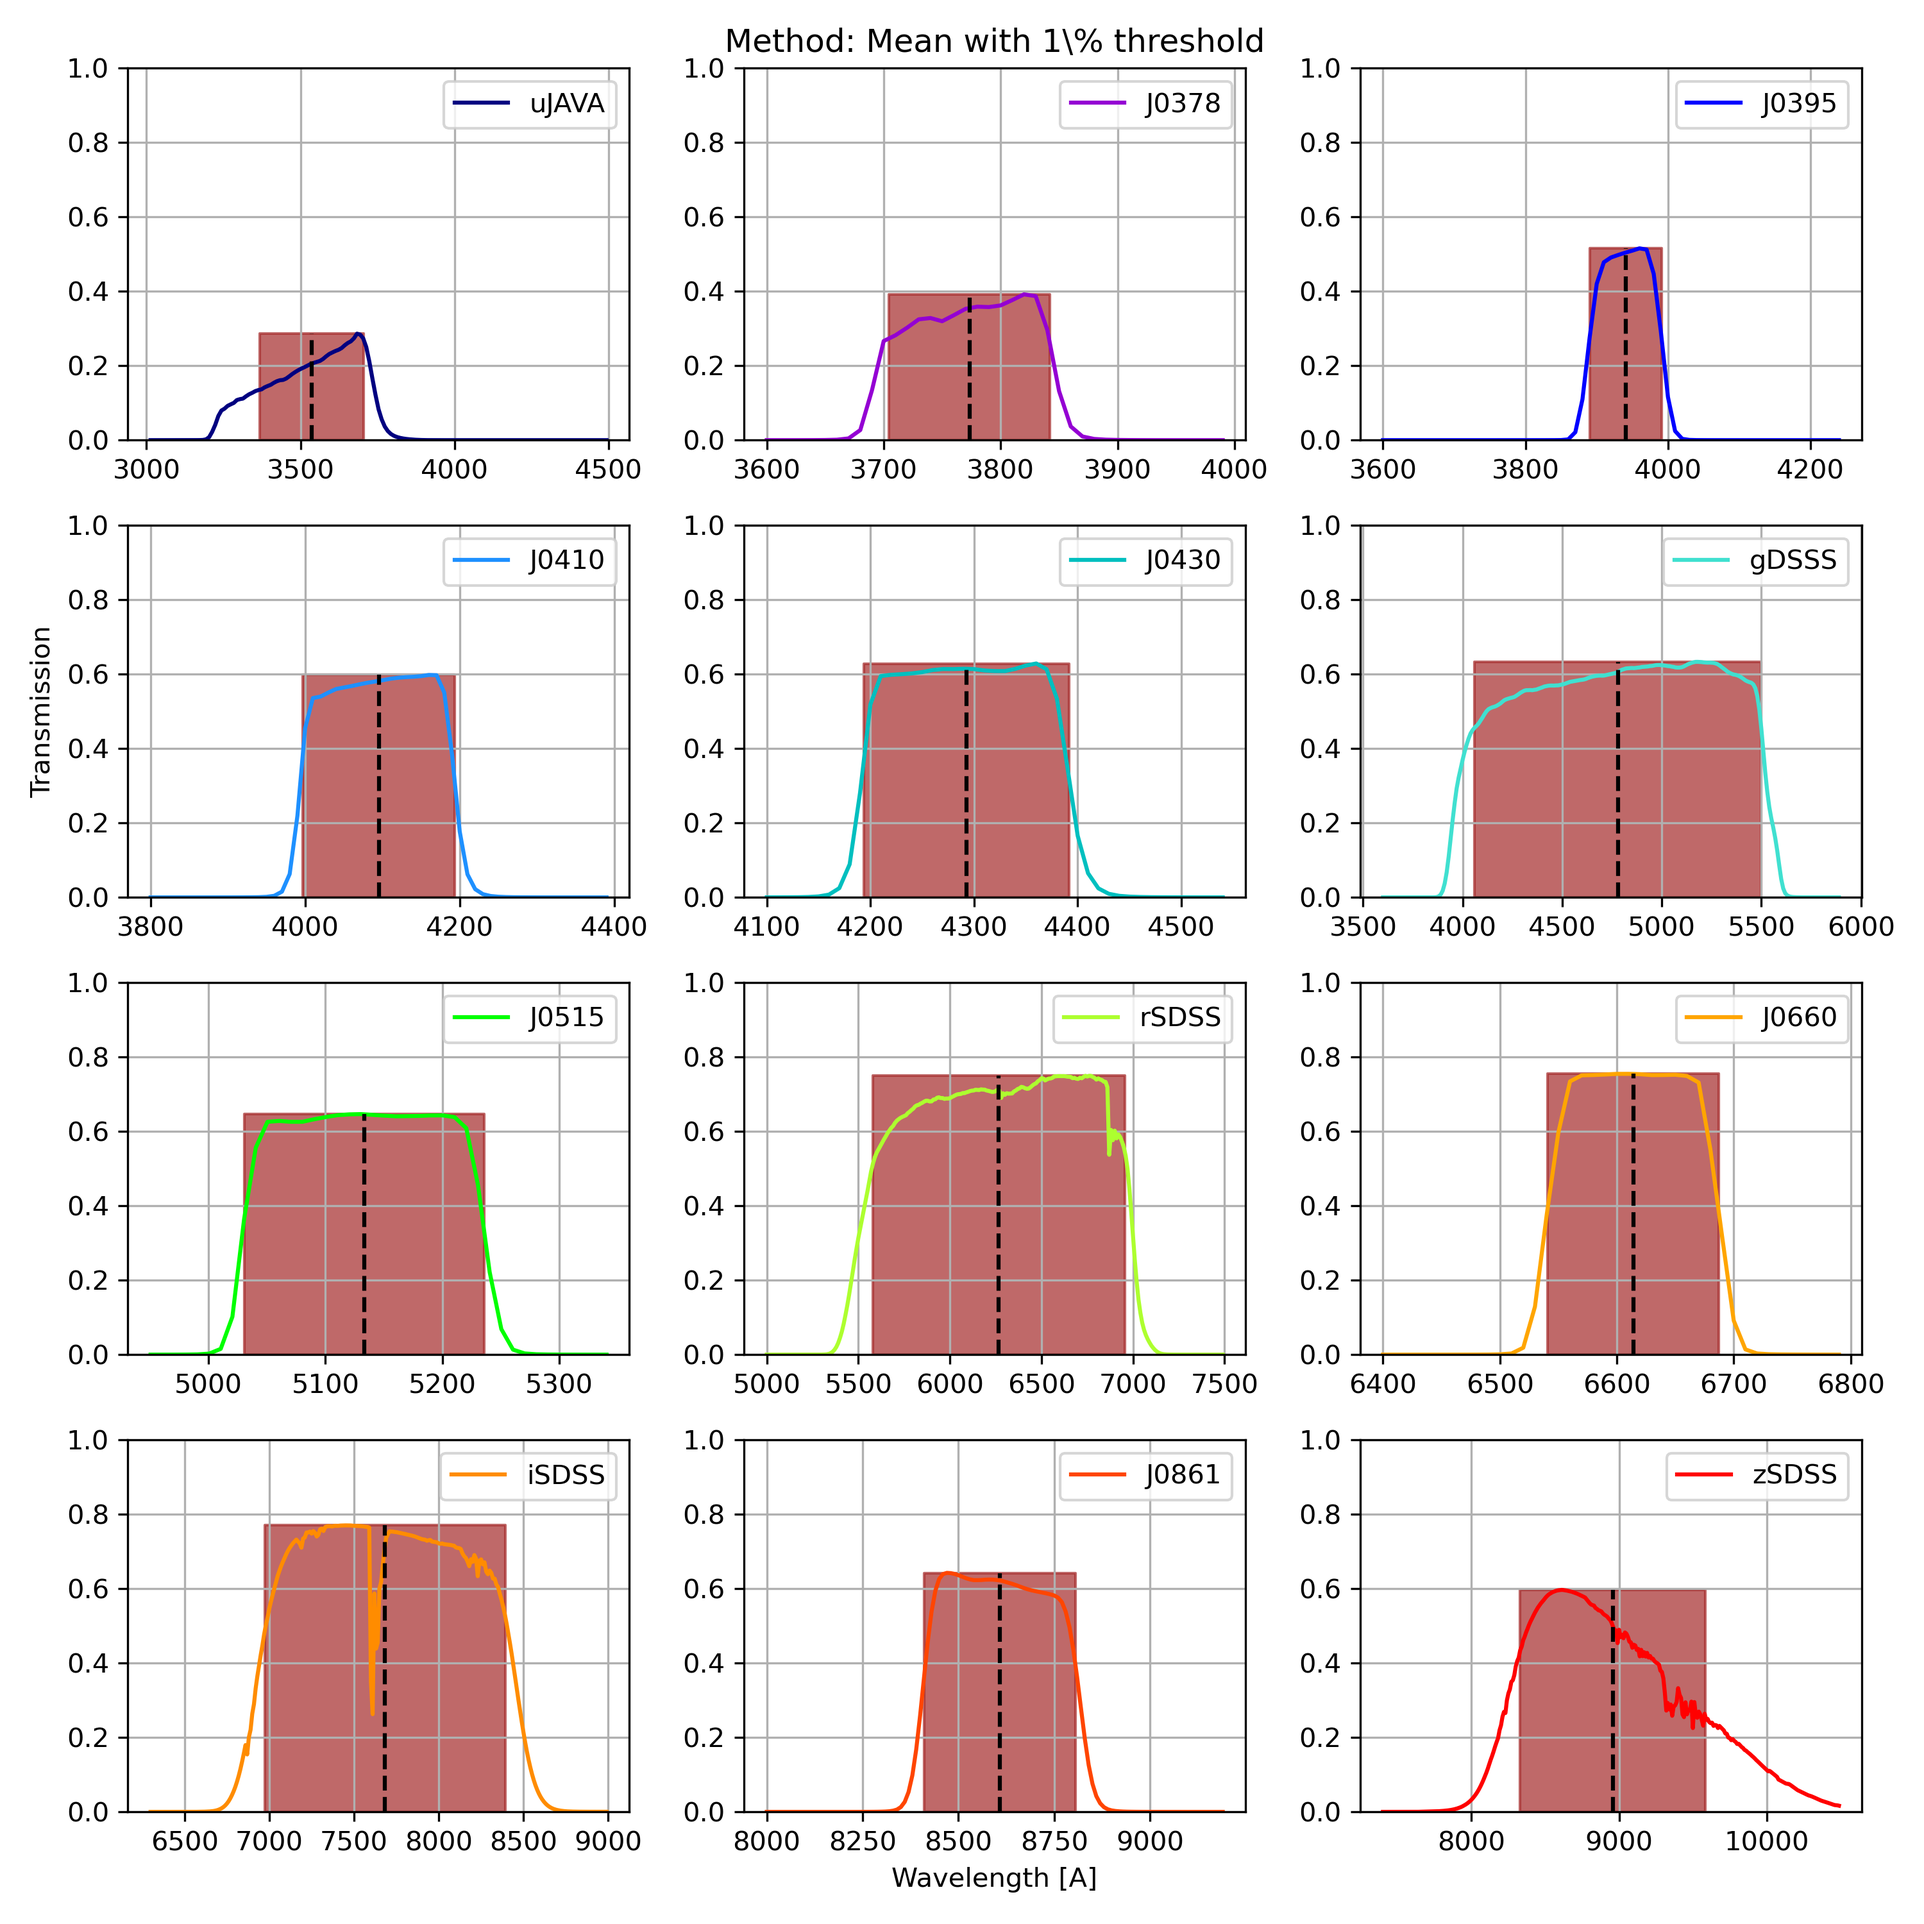
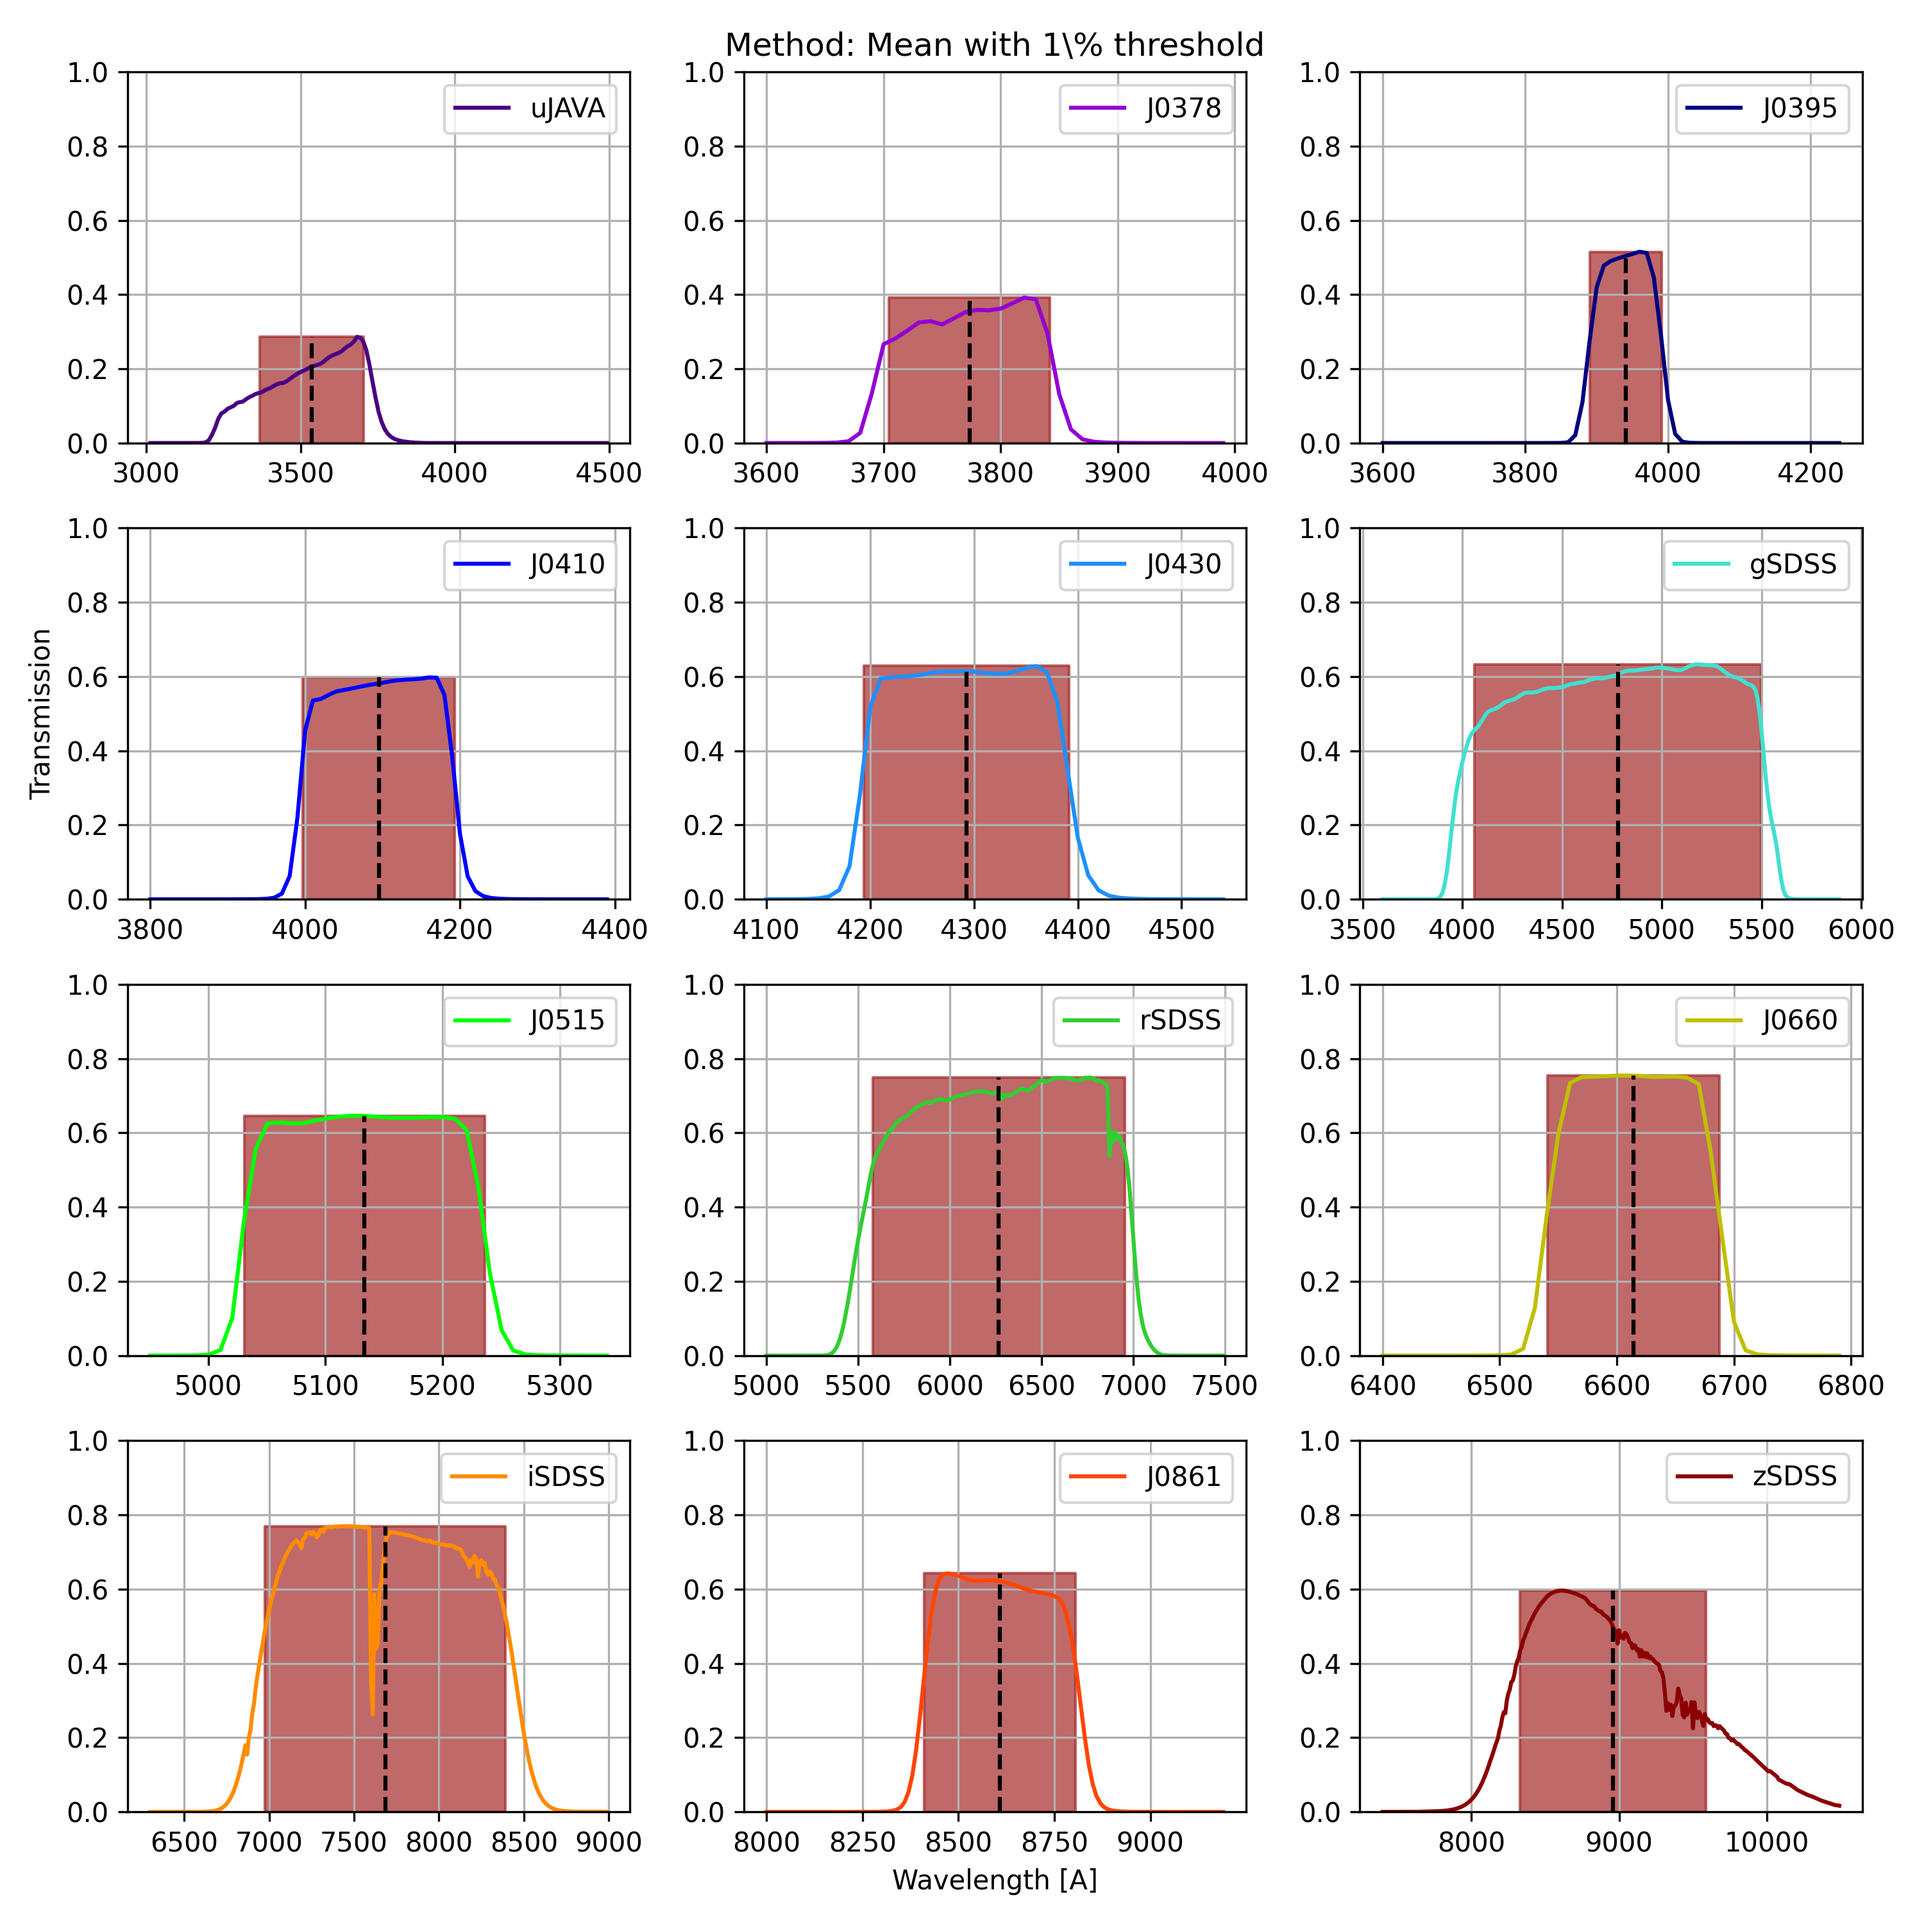
Change ugriz labels for splus_filters.png to adapt to DR4 paper and correct naming on gSDSS

diff --git a/central_wavelengths.html b/central_wavelengths.html
@@ -82,7 +82,7 @@
 <td>1.334</td>
 </tr>
 <tr>
-<td>gDSSS</td>
+<td>gSDSS</td>
 <td>4751</td>
 <td>1545</td>
 <td>4780</td>

diff --git a/calculate_splus_filters.py b/calculate_splus_filters.py
@@ -65,18 +65,18 @@ def main(args):
     """Main function. Run all steps of the code in the sequence required."""
 
     fnames2filters = {
-        '20150918C080uJAVA02': {'fname': 'uJAVA', 'color': 'navy', 'pos': (3563, -500, -4)},
+        '20150918C080uJAVA02': {'fname': 'uJAVA', 'color': 'indigo', 'pos': (3563, -200, -4)},
         '20150429C080F037802': {'fname': 'J0378', 'color': 'darkviolet', 'pos': (3770, -350, 1)},
-        '20150922C080F039502': {'fname': 'J0395', 'color': 'b', 'pos': (3940, -400, 1)},
-        '20150923C080F041002': {'fname': 'J0410', 'color': 'dodgerblue', 'pos': (4094, -350, -0.1)},
-        '20150514C080F043002': {'fname': 'J0430', 'color': 'c', 'pos': (4292, -400, 1.3)},
-        '20150924C080gSDSS02': {'fname': 'gDSSS', 'color': 'turquoise', 'pos': (4751, -300, 0.)},
+        '20150922C080F039502': {'fname': 'J0395', 'color': 'navy', 'pos': (3940, -400, 1)},
+        '20150923C080F041002': {'fname': 'J0410', 'color': 'b', 'pos': (4094, -350, -0.1)},
+        '20150514C080F043002': {'fname': 'J0430', 'color': 'dodgerblue', 'pos': (4292, -400, 1.3)},
+        '20150924C080gSDSS02': {'fname': 'gSDSS', 'color': 'turquoise', 'pos': (4751, -200, 0.)},
         '20140606C080F051502': {'fname': 'J0515', 'color': 'lime', 'pos': (5133, -100, 1.5)},
-        '20140604C080F062502': {'fname': 'rSDSS', 'color': 'greenyellow', 'pos': (6258, -500, -2)},
-        '20140609C080F066002': {'fname': 'J0660', 'color': 'orange', 'pos': (6614, -300, 1)},
-        '20150506C080iSDSS02': {'fname': 'iSDSS', 'color': 'darkorange', 'pos': (7690, -300, 1)},
+        '20140604C080F062502': {'fname': 'rSDSS', 'color': 'limegreen', 'pos': (6258, -200, -2)},
+        '20140609C080F066002': {'fname': 'J0660', 'color': 'y', 'pos': (6614, -300, 1)},
+        '20150506C080iSDSS02': {'fname': 'iSDSS', 'color': 'darkorange', 'pos': (7690, -100, 1)},
         '20150922C080F086102': {'fname': 'J0861', 'color': 'orangered', 'pos': (8611, -250, 1)},
-        '20150504C080zSDSS02': {'fname': 'zSDSS', 'color': 'r', 'pos': (8831, 300, -12)}}
+        '20150504C080zSDSS02': {'fname': 'zSDSS', 'color': 'darkred', 'pos': (8831, 300, -12)}}
 
     logger = get_logger(__name__, loglevel=args.loglevel)
     logger.info('Calculating the lab transmission curves of the filters.')
@@ -475,10 +475,23 @@ def make_final_plot(allcurves, fnames2filters, args):
                  allcurves[key]['transm'] * 100.,
                  color=fnames2filters[key]['color'],
                  label=fnames2filters[key]['fname'], lw=2)
+
+        if fnames2filters[key]['fname'] == 'uJAVA':
+            fname = 'u'
+        elif fnames2filters[key]['fname'] == 'gSDSS':
+            fname = 'g'
+        elif fnames2filters[key]['fname'] == 'rSDSS':
+            fname = 'r'
+        elif fnames2filters[key]['fname'] == 'iSDSS':
+            fname = 'i'
+        elif fnames2filters[key]['fname'] == 'zSDSS':
+            fname = 'z'
+        else:
+            fname = fnames2filters[key]['fname']
         plt.text(fnames2filters[key]['pos'][0] + fnames2filters[key]['pos'][1],
                  max(allcurves[key]['transm'] * 100.) +
                  fnames2filters[key]['pos'][2],
-                 fnames2filters[key]['fname'], fontsize=12, color=fnames2filters[key]['color'])
+                 fname, fontsize=12, color=fnames2filters[key]['color'])
 
     plt.xlabel(r'$\lambda\ \mathrm{[\AA]}$', fontsize=16)
     plt.ylabel(r'$R_\lambda\ \mathrm{[\%]}$', fontsize=16)
